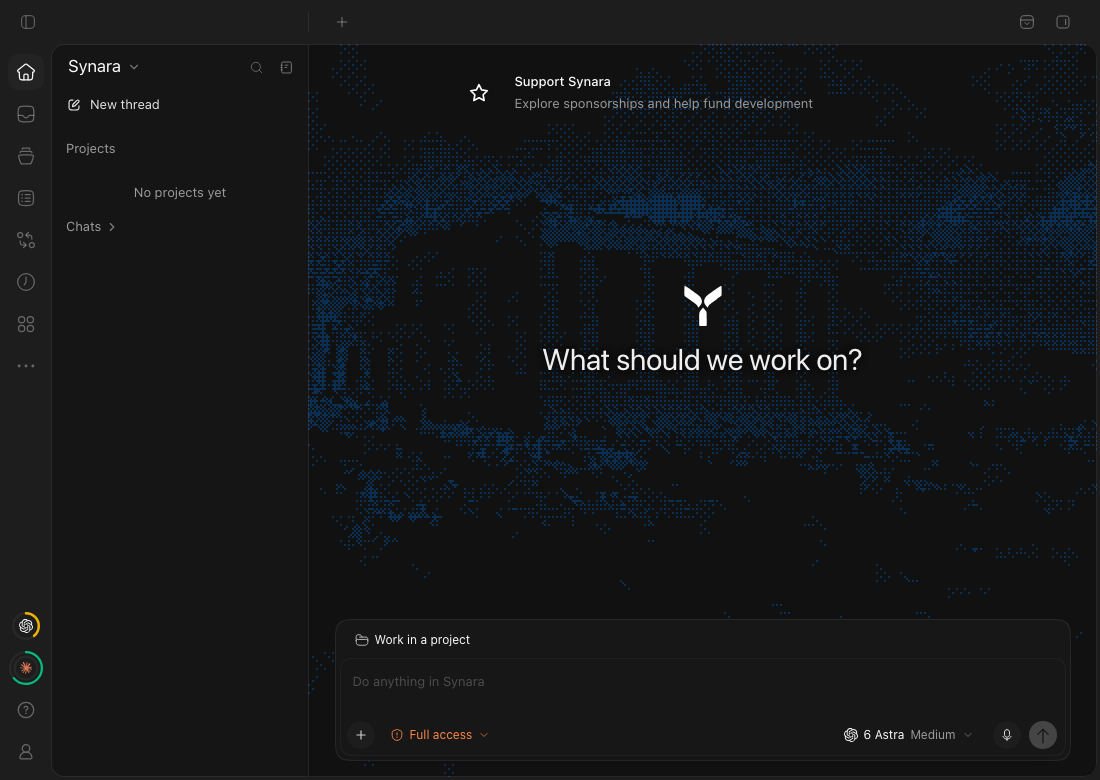
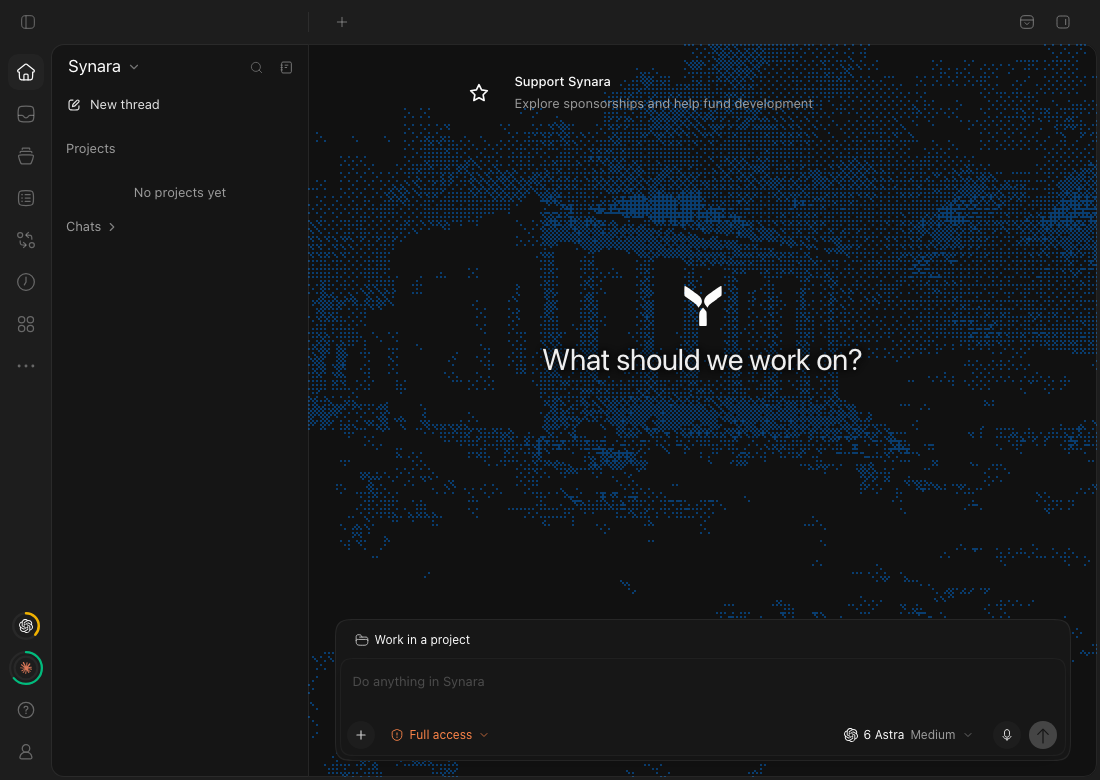
Make the empty-chat backdrop intensity adjustable

diff --git a/apps/web/src/components/chat/EmptyChatBackdrop.tsx b/apps/web/src/components/chat/EmptyChatBackdrop.tsx
@@ -7,7 +7,7 @@
 // Depends on: the active theme's accent color and variant; landing elements marked
 //             `data-empty-chat-backdrop-quiet` get a clear zone behind them.
 
-import { useEffect, useRef } from "react";
+import { type CSSProperties, useEffect, useRef } from "react";
 
 import { useMediaQuery } from "~/hooks/useMediaQuery";
 import { useTheme } from "~/hooks/useTheme";
@@ -35,9 +35,6 @@ const SHARPEN_RADIUS_CELLS = 4;
 const LIGHT_INK_SOFTEN = 0.28;
 const LIGHT_PAPER_PERCENT = 9;
 const LIGHT_SKY_MASK = "linear-gradient(to bottom, transparent 0%, #000 42%)";
-// Less ink in the quiet zones and softer dots elsewhere keep the whole scene readable.
-const DARK_TEMPLE_OPACITY = 0.35;
-const DIMMED_QUIET_FLOOR = 0.6;
 // The sunlit ground just below the temple outshines the rest; ease it down slightly.
 // [x, y] in pane fractions, [rx, ry] radii in pane fractions, and how much to remove.
 const GROUND_DIM = { x: 0.55, y: 0.6, rx: 0.16, ry: 0.07, amount: 0.18 } as const;
@@ -57,7 +54,7 @@ const SCENE_LEVELS = {
     sharpenFrom: 0,
     sharpenTo: 0,
     thinRight: 0,
-    quietFloor: 0.3,
+    quietFloor: 0.6,
   },
   // Light inks the shadows, like print. An unsharp mask outlines the columns, roof and
   // hills, and a steep curve keeps the ink crisp.
@@ -79,13 +76,13 @@ const SCENE_LEVELS = {
     sharpenTo: 0.36,
     // Extra thinning toward the bottom-right corner, where the hills are darkest.
     thinRight: 0.45,
-    quietFloor: DIMMED_QUIET_FLOOR,
+    quietFloor: 0.6,
   },
 } as const;
-// Dark Temple quiets the full tray so the scene recedes beneath its translucent surface.
-const QUIET_TEXT_SELECTOR = "[data-empty-chat-backdrop-quiet]";
-const DARK_TEMPLE_QUIET_SELECTOR = `${QUIET_TEXT_SELECTOR}, [data-composer-tray]`;
-const QUIET_SELECTOR = `${QUIET_TEXT_SELECTOR}, [data-empty-landing-controls]`;
+// Dimmed zones behind marked landing elements: padding and soft edge width (how much of the
+// scene stays inside is per theme, `quietFloor`; dimmed rather than erased).
+// The landing controls (project and environment chips) sit over the foreground too.
+const QUIET_SELECTOR = "[data-empty-chat-backdrop-quiet], [data-empty-landing-controls]";
 const QUIET_PADDING_PX = 12;
 const QUIET_FEATHER_PX = 72;
 const RIPPLE_SPEED_PX_PER_MS = 0.5;
@@ -208,9 +205,9 @@ function unionRect(a: CellRect, b: CellRect): CellRect {
 }
 
 // Content boxes of the marked landing elements, in container coordinates.
-function measureQuietZones(host: Element, origin: DOMRect, selector: string): DOMRect[] {
+function measureQuietZones(host: Element, origin: DOMRect): DOMRect[] {
   const zones: DOMRect[] = [];
-  for (const element of host.querySelectorAll(selector)) {
+  for (const element of host.querySelectorAll(QUIET_SELECTOR)) {
     // Union of the children, so a wide wrapper only clears what it actually shows.
     const parts = element.children.length > 0 ? Array.from(element.children) : [element];
     let left = Infinity;
@@ -522,7 +519,7 @@ function ditherDots(density: Uint8Array, cols: number, rows: number): Uint8Array
 
 export type EmptyChatBackdropStyle = "temple" | "gradient";
 
-export function EmptyChatBackdrop(props: { style: EmptyChatBackdropStyle }) {
+export function EmptyChatBackdrop(props: { style: EmptyChatBackdropStyle; intensity: number }) {
   const { style } = props;
   const containerRef = useRef<HTMLDivElement>(null);
   const canvasRef = useRef<HTMLCanvasElement>(null);
@@ -530,7 +527,6 @@ export function EmptyChatBackdrop(props: { style: EmptyChatBackdropStyle }) {
   const reduceMotion = useMediaQuery("(prefers-reduced-motion: reduce)");
   const { accent } = activeTheme.theme;
   const isDark = resolvedTheme === "dark";
-  const darkTemple = isDark && style === "temple";
   const dotRadius = (isDark ? SCENE_LEVELS.dark : SCENE_LEVELS.light).dot;
   const skyMask = !isDark && style === "temple" ? LIGHT_SKY_MASK : null;
 
@@ -712,18 +708,15 @@ export function EmptyChatBackdrop(props: { style: EmptyChatBackdropStyle }) {
       let density: Uint8Array | null;
       let gradient: GradientField | null = null;
       if (style === "gradient") {
-        const zones = measureQuietZones(host, container.getBoundingClientRect(), QUIET_SELECTOR);
-        gradient = buildGradientField(cols, rows, zones, DIMMED_QUIET_FLOOR);
+        const zones = measureQuietZones(host, container.getBoundingClientRect());
+        const levels = isDark ? SCENE_LEVELS.dark : SCENE_LEVELS.light;
+        gradient = buildGradientField(cols, rows, zones, levels.quietFloor);
         density = new Uint8Array(cols * rows);
       } else {
         scenePromise ??= loadImage(SCENE_SRC);
         const scene = await scenePromise;
         if (disposed || !scene) return;
-        const zones = measureQuietZones(
-          host,
-          container.getBoundingClientRect(),
-          darkTemple ? DARK_TEMPLE_QUIET_SELECTOR : QUIET_SELECTOR,
-        );
+        const zones = measureQuietZones(host, container.getBoundingClientRect());
         density = buildDensity(scene, cols, rows, isDark, zones);
       }
       if (!density || disposed) return;
@@ -835,14 +828,15 @@ export function EmptyChatBackdrop(props: { style: EmptyChatBackdropStyle }) {
       if (frameId !== 0) cancelAnimationFrame(frameId);
       window.clearTimeout(timerId);
     };
-  }, [accent, darkTemple, isDark, reduceMotion, style]);
+  }, [accent, isDark, reduceMotion, style]);
 
   return (
     <div
       ref={containerRef}
       aria-hidden
       data-empty-chat-backdrop={style}
-      className="pointer-events-none absolute inset-0 overflow-hidden opacity-0 transition-opacity duration-700 ease-out select-none contrast-more:hidden data-[ready=true]:opacity-100 motion-reduce:transition-none forced-colors:hidden"
+      style={{ "--empty-chat-backdrop-opacity": props.intensity / 100 } as CSSProperties}
+      className="pointer-events-none absolute inset-0 overflow-hidden opacity-0 transition-opacity duration-700 ease-out select-none contrast-more:hidden data-[ready=true]:opacity-(--empty-chat-backdrop-opacity) motion-reduce:transition-none forced-colors:hidden"
     >
       {skyMask ? (
         <div
@@ -862,7 +856,6 @@ export function EmptyChatBackdrop(props: { style: EmptyChatBackdropStyle }) {
         ref={canvasRef}
         className="absolute top-0 left-0 [image-rendering:pixelated]"
         style={{
-          opacity: darkTemple ? DARK_TEMPLE_OPACITY : undefined,
           maskImage: [
             `radial-gradient(circle at center, #000 ${dotRadius}px, transparent ${dotRadius + 0.4}px)`,
             ...(skyMask ? [skyMask] : []),

diff --git a/apps/web/src/components/settings/views/AppearanceSettingsView.tsx b/apps/web/src/components/settings/views/AppearanceSettingsView.tsx
@@ -13,6 +13,7 @@ import {
   MAX_TERMINAL_FONT_SIZE_PX,
   type MessageTrailAudioSource,
   MIN_CHAT_FONT_SIZE_PX,
+  MIN_EMPTY_CHAT_BACKDROP_INTENSITY,
   MIN_TERMINAL_FONT_SIZE_PX,
   normalizeChatFontSizePx,
   normalizeTerminalFontFamily,
@@ -46,6 +47,7 @@ import { Button } from "~/components/ui/button";
 import { Input } from "~/components/ui/input";
 import { SelectItem } from "~/components/ui/select";
 import { Switch } from "~/components/ui/switch";
+import { Slider } from "~/components/ui/slider";
 import { isElectron } from "~/env";
 import { useCustomTitleBarPreference } from "~/hooks/useCustomTitleBarPreference";
 import { useDefaultDesktopAppIcon } from "~/hooks/useDefaultDesktopAppIcon";
@@ -221,7 +223,9 @@ function MessageTrailMicrophoneRow({
 
 export function AppearanceSettingsView(binding: AppSettingsBinding) {
   const { settings, defaults, updateSettings } = binding;
-  const { t } = useTranslation();
+  const { t, formatLocale } = useTranslation();
+  const formatIntensity = (value: number) =>
+    new Intl.NumberFormat(formatLocale, { style: "percent" }).format(value / 100);
   const { resolvedTheme, theme, setTheme, systemUiFont, setSystemUiFont } = useTheme();
   const platform = getNavigatorPlatform();
   const shouldShowFontSmoothing = isMacPlatform(platform);
@@ -378,6 +382,44 @@ export function AppearanceSettingsView(binding: AppSettingsBinding) {
               ariaLabel={t("settings:asciiBackground")}
               options={EMPTY_CHAT_BACKGROUND_OPTIONS}
             />
+          }
+        />
+
+        <SettingsRow
+          id="setting-empty-chat-backdrop-intensity"
+          title="settings:emptyChatBackdropIntensity"
+          description="settings:emptyChatBackdropIntensityDescription"
+          resetAction={
+            settings.emptyChatBackdropIntensity !== defaults.emptyChatBackdropIntensity ? (
+              <SettingResetButton
+                label={t("settings:emptyChatBackdropIntensity")}
+                onClick={() =>
+                  updateSettings({
+                    emptyChatBackdropIntensity: defaults.emptyChatBackdropIntensity,
+                  })
+                }
+              />
+            ) : null
+          }
+          control={
+            <div className="flex w-40 items-center gap-2">
+              <Slider
+                className="min-w-0 flex-1"
+                value={settings.emptyChatBackdropIntensity}
+                min={MIN_EMPTY_CHAT_BACKDROP_INTENSITY}
+                max={100}
+                step={5}
+                disabled={!settings.showAsciiBackground}
+                aria-label={t("settings:emptyChatBackdropIntensity")}
+                getAriaValueText={formatIntensity}
+                onValueChange={(emptyChatBackdropIntensity) =>
+                  updateSettings({ emptyChatBackdropIntensity })
+                }
+              />
+              <span aria-hidden className="min-w-[4ch] text-end text-ui-xs tabular-nums">
+                {formatIntensity(settings.emptyChatBackdropIntensity)}
+              </span>
+            </div>
           }
         />
 

diff --git a/apps/web/src/components/ChatView.browser.tsx b/apps/web/src/components/ChatView.browser.tsx
@@ -13360,10 +13360,24 @@ describe("ChatView transcript geometry (full app)", () => {
       expect(getComputedStyle(trayControls()!).textShadow).toBe("none");
       await goToSettings();
       await expect.element(option("Temple")).toHaveAttribute("aria-checked", "true");
+      const intensity = page.getByRole("slider", { name: "Backdrop intensity" });
+      await expect.element(intensity).toHaveAttribute("aria-valuenow", "100");
+      (intensity.element() as HTMLElement).focus();
+      await userEvent.keyboard("{Home}");
+      await expect.poll(() => storedSettings().emptyChatBackdropIntensity).toBe(10);
+      await goToChat();
+      await expect
+        .poll(() => background() && getComputedStyle(background()!).opacity, { timeout: 3_000 })
+        .toBe("0.1");
+      await goToSettings();
+      await expect.element(intensity).toHaveAttribute("aria-valuenow", "10");
       await option("Gradient").click();
       await expect.poll(() => storedSettings().emptyChatBackdropStyle).toBe("gradient");
       await goToChat();
       await expect.poll(styleOf).toBe("gradient");
+      await expect
+        .poll(() => background() && getComputedStyle(background()!).opacity, { timeout: 3_000 })
+        .toBe("0.1");
       await goToSettings();
       await option("Off").click();
       await expect.poll(() => storedSettings().showAsciiBackground).toBe(false);
@@ -13372,7 +13386,10 @@ describe("ChatView transcript geometry (full app)", () => {
       expect(background()).toBeNull();
       await goToSettings();
       await expect.element(option("Off")).toHaveAttribute("aria-checked", "true");
+      await expect.element(intensity).toBeDisabled();
+      await page.getByRole("button", { name: "Reset Backdrop intensity to default" }).click();
       await page.getByRole("button", { name: "Reset Empty chat background to default" }).click();
+      await expect.element(intensity).toHaveAttribute("aria-valuenow", "100");
       await expect.element(option("Temple")).toHaveAttribute("aria-checked", "true");
       await goToChat();
       await expect.poll(styleOf).toBe("temple");

diff --git a/apps/web/src/appSettings.ts b/apps/web/src/appSettings.ts
@@ -121,6 +121,8 @@ export const MAX_CUSTOM_MODEL_LENGTH = 256;
 export const MIN_CHAT_FONT_SIZE_PX = 11;
 export const MAX_CHAT_FONT_SIZE_PX = 18;
 export const DEFAULT_CHAT_FONT_SIZE_PX = 13;
+export const MIN_EMPTY_CHAT_BACKDROP_INTENSITY = 10;
+const DEFAULT_EMPTY_CHAT_BACKDROP_INTENSITY = 100;
 export const MIN_TERMINAL_FONT_SIZE_PX = 10;
 export const MAX_TERMINAL_FONT_SIZE_PX = 22;
 export const DEFAULT_TERMINAL_FONT_SIZE_PX = 12;
@@ -422,6 +424,9 @@ export const AppSettingsSchema = Schema.Struct({
   // Which empty-chat backdrop shows while `showAsciiBackground` is on.
   emptyChatBackdropStyle: EmptyChatBackdropStyle.pipe(
     withDefaults(() => "temple" as const satisfies EmptyChatBackdropStyle),
+  ),
+  emptyChatBackdropIntensity: Schema.Number.pipe(
+    withDefaults(() => DEFAULT_EMPTY_CHAT_BACKDROP_INTENSITY),
   ),
   confirmThreadDelete: Schema.Boolean.pipe(withDefaults(() => true)),
   // Opt-in: archiving a task also releases its worktree when nothing else uses it.
@@ -1614,6 +1619,15 @@ function normalizeAppSettings(settings: AppSettings): AppSettings {
     ompBinaryPath: normalizeProviderBinaryPathOverride("omp", settings.ompBinaryPath),
     uiDensity: normalizeUiDensityValue(settings.uiDensity),
     chatWidth: normalizeChatWidthModeValue(settings.chatWidth),
+    emptyChatBackdropIntensity: Number.isFinite(settings.emptyChatBackdropIntensity)
+      ? Math.min(
+          DEFAULT_EMPTY_CHAT_BACKDROP_INTENSITY,
+          Math.max(
+            MIN_EMPTY_CHAT_BACKDROP_INTENSITY,
+            Math.round(settings.emptyChatBackdropIntensity),
+          ),
+        )
+      : DEFAULT_EMPTY_CHAT_BACKDROP_INTENSITY,
     agentCursorFillColor: normalizeCursorHexColor(settings.agentCursorFillColor),
     agentCursorRimColor: normalizeCursorHexColor(settings.agentCursorRimColor),
     chatFontSizePx: normalizeChatFontSizePx(settings.chatFontSizePx),

diff --git a/apps/web/src/components/ChatView.tsx b/apps/web/src/components/ChatView.tsx
@@ -7161,7 +7161,10 @@ export default function ChatView({
                 )}
               >
                 {settings.showAsciiBackground && !terminalWorkspaceTerminalTabActive ? (
-                  <EmptyChatBackdrop style={settings.emptyChatBackdropStyle} />
+                  <EmptyChatBackdrop
+                    style={settings.emptyChatBackdropStyle}
+                    intensity={settings.emptyChatBackdropIntensity}
+                  />
                 ) : null}
                 {/* The heading floats centered in the space above the composer, which is
                     anchored to the bottom of the pane (with its workspace-tools rail

diff --git a/apps/web/src/hooks/useSettingsRestoreDefaults.ts b/apps/web/src/hooks/useSettingsRestoreDefaults.ts
@@ -103,6 +103,9 @@ export function useSettingsRestoreDefaults({
     settings.emptyChatBackdropStyle !== defaults.emptyChatBackdropStyle
       ? ["Empty chat background"]
       : []),
+    ...(settings.emptyChatBackdropIntensity !== defaults.emptyChatBackdropIntensity
+      ? ["settings:emptyChatBackdropIntensity"]
+      : []),
     ...(settings.uiDensity !== defaults.uiDensity ? ["settings:changed_uiDensity"] : []),
     ...(settings.chatWidth !== defaults.chatWidth ? ["settings:chatWidth"] : []),
     ...(settings.desktopAppIcon !== defaultDesktopAppIcon ? ["settings:appIcon"] : []),

diff --git a/apps/web/src/components/chat/EmptyChatBackdrop.browser.tsx b/apps/web/src/components/chat/EmptyChatBackdrop.browser.tsx
@@ -8,7 +8,7 @@ import { render } from "vitest-browser-react";
 import { EmptyChatBackdrop } from "./EmptyChatBackdrop";
 
 it("restores the still Temple image after hiding the pane during a ripple", async () => {
-  const backdropProps = { style: "temple" } as const;
+  const backdropProps = { style: "temple", intensity: 100 } as const;
   const screen = await render(
     <div data-testid="pane" style={{ position: "relative", width: 480, height: 320 }}>
       <EmptyChatBackdrop {...backdropProps} />

diff --git a/apps/web/src/settingsSearchRows.generated.ts b/apps/web/src/settingsSearchRows.generated.ts
@@ -187,6 +187,12 @@ export const GENERATED_SETTINGS_SEARCH_ROWS: readonly GeneratedSettingsSearchRow
     description: "settings:asciiBackgroundDescription",
   },
   {
+    target: "setting-empty-chat-backdrop-intensity",
+    section: "appearance",
+    title: "settings:emptyChatBackdropIntensity",
+    description: "settings:emptyChatBackdropIntensityDescription",
+  },
+  {
     target: "setting-message-trail-sound",
     section: "appearance",
     title: "settings:messageTrailSound",
